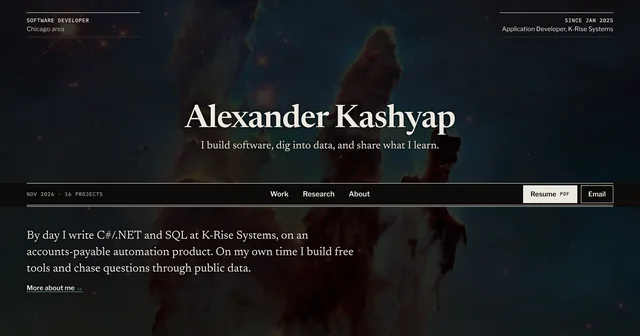
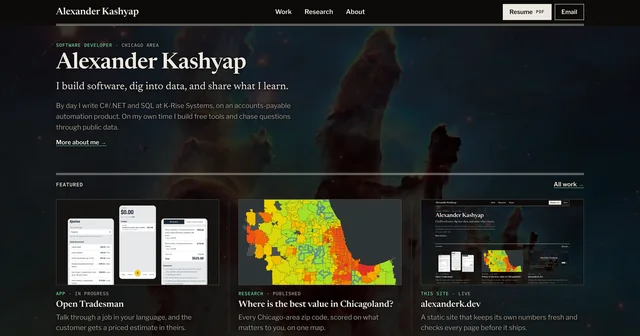
Give the homepage the same header as every other page
The tall masthead over the photo is gone: the homepage starts with the
same name-and-nav header as the other pages, then the name, tagline and
intro, with no empty space above them. The alexanderk.dev picture is
retaken from the new homepage.

Claude-Session: https://claude.ai/code/session_01EyWja9GQ2vc1y2HRMotNQb

diff --git a/src/styles/site.css b/src/styles/site.css
@@ -8,7 +8,7 @@
    2. Tokens        colors, type, spacing; older names kept as aliases
    3. Base          reset, body, links, focus, utilities
    4. Sky           the photo behind every page, and keeping text readable on it
-   5. Header        the homepage masthead and the compact header on other pages
+   5. Header        the name and nav at the top of every page
    6. Footer
    7. Components    buttons, cards, grids, sections
    8. Content       prose (READMEs and code), unlock box, video
@@ -216,28 +216,11 @@ main .hv { padding-block: var(--space-5); }
 .cta-solid:hover { background: var(--paper); color: var(--ink); }
 .cta:not(.cta-solid):hover { background: var(--ink); color: var(--paper); text-shadow: none; }
 
-/* The homepage masthead: the name over the photo, then the nav row */
-.sky { position: relative; }
-.sky-inner { min-height: 400px; padding-block: 20px 24px; }
-.sky .ear, .sky .ear .mono { color: var(--ink); }
-.sky .ear-left { color: #CFC9BE; }
-.mast-top { display: grid; justify-items: center; gap: 8px; text-align: center; }
-.ear { margin: 0; color: var(--muted); }
-.ear-left { font-family: var(--mono); font-weight: 500; font-size: 0.75rem; letter-spacing: 0.05em; text-transform: uppercase; }
-.ear-left span + span::before { content: " \00B7  "; content: " \00B7  " / ""; }
-.ear-right { display: none; }
-.mast-name { font-family: var(--serif); font-weight: 600; font-size: clamp(2.125rem, 1rem + 5.6vw, 4.5rem); line-height: 0.98; letter-spacing: -0.02em; }
-.mast-tagline { max-width: 34em; margin: 12px auto 16px; font-family: var(--serif); font-size: clamp(1.1875rem, 1rem + 0.8vw, 1.5rem); line-height: 1.3; text-align: center; text-wrap: balance; }
-.navrow { display: grid; align-items: center; gap: 4px; padding-block: 4px 12px; border-top: 1px solid var(--ink); border-bottom: 4px double var(--ink); }
-.dateline { display: none; margin: 0; color: var(--muted); }
-
-/* The header stays at the top of the screen as the page scrolls, on a solid
-   strip so the photo and the page don't show through it. On phones only its
-   row of links stays; the name above them scrolls away (the negative top). */
-.site-header { position: sticky; top: 0; z-index: 20; background: var(--night); }
-.site-header:not(.masthead-bar) { top: -53px; }
-
-/* Every other page: a compact header, the name (home link) and the same nav */
+/* The header: the name (home link), then the nav. It stays at the top of the
+   screen as the page scrolls, on a solid strip so the photo and the page don't
+   show through it. On phones only its row of links stays; the name above them
+   scrolls away (the negative top). */
+.site-header { position: sticky; top: -53px; z-index: 20; background: var(--night); }
 .topbar { display: grid; grid-template-columns: minmax(0, 1fr); align-items: center; padding-top: 8px; border-bottom: 4px double var(--ink); }
 .brand { justify-self: start; display: inline-flex; align-items: center; min-height: 44px; font-family: var(--serif); font-weight: 600; font-size: 1.5rem; line-height: 1.1; letter-spacing: -0.01em; text-decoration: none; }
 .brand:hover { text-decoration: underline; text-decoration-color: var(--accent); text-decoration-thickness: 2px; }
@@ -419,28 +402,10 @@ main .hv { padding-block: var(--space-5); }
   .section-intro { margin-bottom: var(--space-6); }
 }
 
-/* Phones: the homepage's nav row matches the other pages' one row of links,
-   so it stays short while it sits at the top of the screen */
-@media (max-width: 719.98px) {
-  .navrow { display: flex; flex-wrap: wrap; justify-content: space-between; align-items: center; gap: 0 16px; padding-block: 0; border-top: 0; }
-  .navrow .sections { justify-content: flex-start; gap: 0 20px; }
-  .navrow .nav-actions { display: flex; gap: 0 20px; }
-  .navrow .nav-actions .cta { width: auto; min-height: 44px; padding: 0; border: 0; background: transparent; color: var(--ink); font-size: 1rem; text-shadow: inherit; }
-  .navrow .nav-actions .cta:hover { background: transparent; color: var(--ink); text-decoration: underline; text-decoration-color: var(--accent); }
-  .navrow .nav-actions .mono { position: absolute; width: 1px; height: 1px; overflow: hidden; clip-path: inset(50%); white-space: nowrap; }
-}
-@media (max-width: 379.98px) {
-  .navrow, .navrow .sections, .navrow .nav-actions { gap: 0 12px; }
-  .navrow .sections a, .navrow .nav-actions .cta { font-size: 0.875rem; }
-}
-
 @media (min-width: 720px) {
   :root { --head-h: 64px; }
-  .site-header:not(.masthead-bar) { top: 0; }
+  .site-header { top: 0; }
   .shell { padding-inline: 16px; }
-  .sky-inner { min-height: 440px; }
-  .dateline { display: block; }
-  .navrow { grid-template-columns: 1fr auto 1fr; padding-block: 4px; }
   .nav-actions { justify-self: end; display: flex; }
   .nav-actions .cta { width: auto; }
   .wrap, .narrow { padding: 0 32px; }
@@ -485,18 +450,6 @@ main .hv { padding-block: var(--space-5); }
   .shell { padding-inline: 24px; }
   .wrap, .narrow { padding: 0 40px; }
 
-  /* Homepage masthead: the two "ears" either side, the name centered under them */
-  .sky-inner { min-height: 0; padding-block: 28px 52px; }
-  .mast-top { grid-template-columns: minmax(0, 1fr) auto minmax(0, 1fr); grid-template-rows: auto auto; align-items: stretch; column-gap: 32px; row-gap: 150px; }
-  .mast-top > .ear-left { grid-row: 1; grid-column: 1; }
-  .mast-top > .ear-right { grid-row: 1; grid-column: 3; }
-  .mast-top > .mast-name { grid-row: 2; grid-column: 1 / -1; justify-self: center; align-self: center; }
-  .ear { display: flex; flex-direction: column; justify-content: center; gap: 2px; width: min(16rem, 100%); padding: 8px 0; border-top: 1px solid var(--ink); border-bottom: 1px solid var(--rule); font-family: var(--sans); font-weight: 400; font-size: 0.875rem; line-height: 1.35; letter-spacing: 0; text-transform: none; color: var(--ink); }
-  .ear .mono { color: var(--muted); }
-  .ear-left { justify-self: start; text-align: left; }
-  .ear-left span + span::before { content: none; }
-  .ear-right { justify-self: end; text-align: right; }
-  .mast-tagline { margin: 8px auto 16px; }
   .sections a, .nav-actions .cta { min-height: 40px; }
 
   .foot-grid { grid-template-columns: minmax(0, 3fr) minmax(0, 4fr) minmax(0, 3fr) minmax(0, 3fr); }

diff --git a/src/styles/home.css b/src/styles/home.css
@@ -1,6 +1,6 @@
 /* ==========================================================================
    The homepage's own layout (src/pages/index.astro): a brief front door.
-   The type, colors, masthead, nav and footer it shares with every page are
+   The type, colors, header and footer it shares with every page are
    in src/styles/site.css; the labels, kickers and headlines it shares with
    the Work pages are in src/styles/editorial.css.
 
@@ -13,7 +13,9 @@
 
 /* ---------- The intro ---------- */
 .hello { padding-top: 32px; max-width: 46rem; }
-.hello-lede { font-family: var(--serif); font-size: clamp(1.25rem, 1.1rem + 0.7vw, 1.625rem); line-height: 1.42; }
+.hello .kicker { margin-bottom: 8px; }
+.hello-tag { margin-top: 12px; font-family: var(--serif); font-size: clamp(1.25rem, 1.1rem + 0.7vw, 1.625rem); line-height: 1.35; }
+.hello-lede { margin-top: 16px; max-width: 38em; font-size: 1.0625rem; line-height: 1.6; color: var(--muted); }
 
 /* ---------- Featured: three cards ---------- */
 .fcards { display: grid; gap: 32px; }
@@ -44,7 +46,7 @@
 .reach a:not(.cta) { font-weight: 600; display: inline-flex; align-items: center; min-height: 44px; }
 
 @media (min-width: 720px) {
-  .hello { padding-top: 48px; }
+  .hello { padding-top: 40px; }
   /* Equal columns, with a rule down the middle of each gap */
   .fcards { grid-template-columns: repeat(3, minmax(0, 1fr)); gap: 0 calc(2 * var(--col-pad)); }
   .fcard + .fcard { position: relative; }
